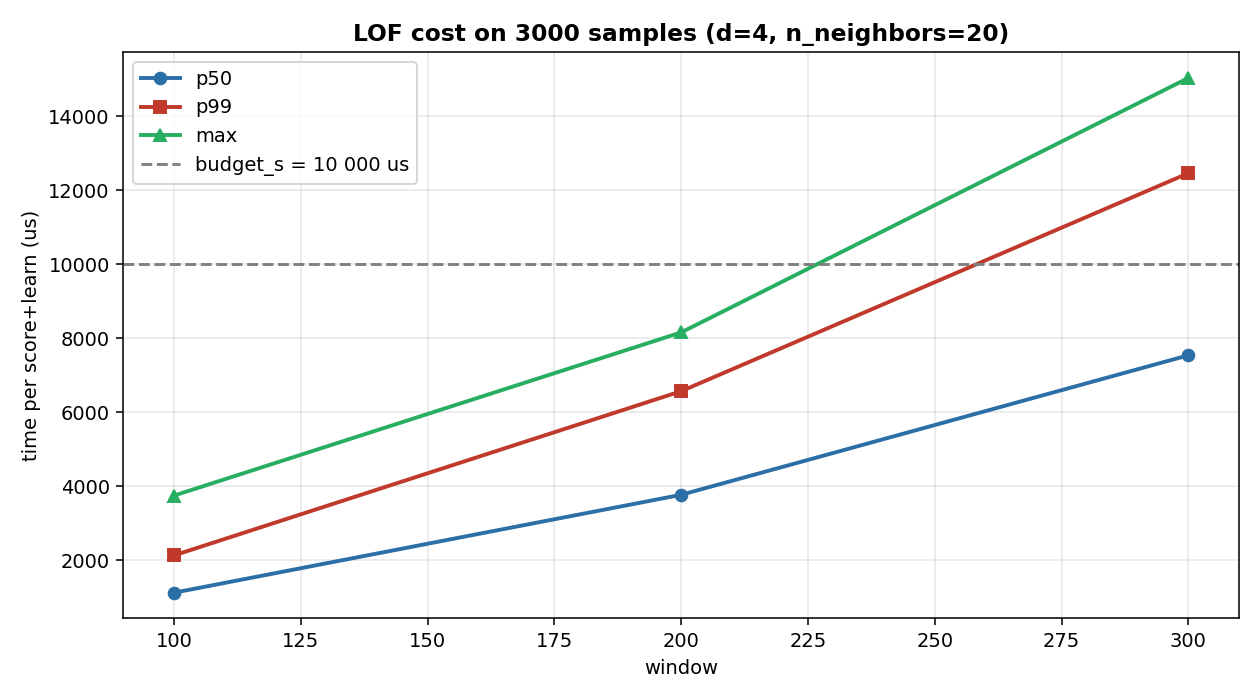
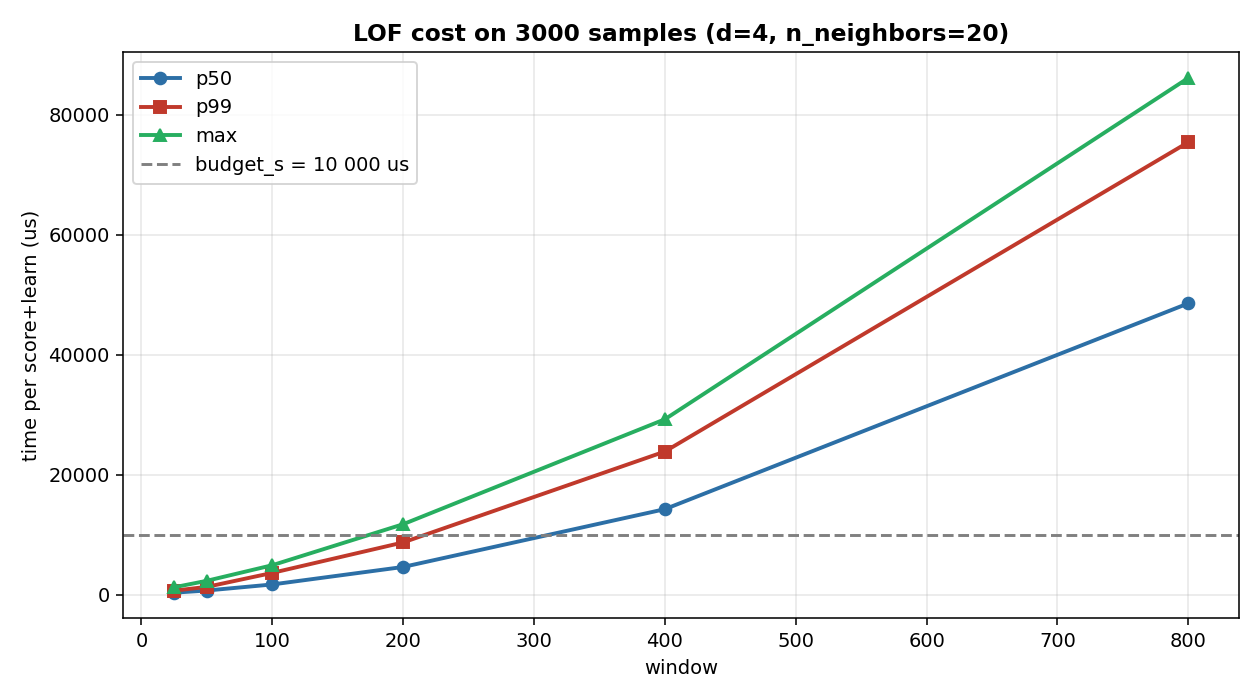
taskD F: fix lof/make_figure.py, generate comparison and budget inline

diff --git a/docs/assets/lof/make_figure.py b/docs/assets/lof/make_figure.py
@@ -8,7 +8,6 @@ Every figure comes from the library's own classes on the same streams
 the tests use. No external data, no hard-coded numbers.
 """
 
-import json
 import sys
 from pathlib import Path
 
@@ -23,8 +22,13 @@ sys.path.insert(0, str(ROOT))
 
 from sklearn.metrics import roc_auc_score
 
+from dense_armor.utility.anomaly.hst import HalfSpaceTrees
+from dense_armor.utility.anomaly.loda import LODA
 from dense_armor.utility.anomaly.lof import LocalOutlierFactor
-from dense_armor.utility.datasets import SyntheticArm
+from dense_armor.utility.anomaly.mahalanobis import OnlineRobustMahalanobis
+from dense_armor.utility.anomaly.ocsvm import OneClassSGD
+from dense_armor.utility.anomaly.oiforest import OnlineIsolationForest
+from dense_armor.utility.datasets import DriftStream, SyntheticArm
 
 HERE = Path(__file__).resolve().parent
 URDF = ROOT / "test/fixtures/urdf/panda.urdf"
@@ -151,18 +155,59 @@ def fig_arm_trajectory():
     print(f"  lof_arm_trajectory.png: AUC={auc:.3f}")
 
 
+def _comparison_run():
+    """Run 6 detectors x 2 protocols x 5 seeds on DriftStream sudden."""
+    import time
+
+    builders = {
+        "HST": lambda k: HalfSpaceTrees(feature_keys=k, seed=0),
+        "LODA": lambda k: LODA(feature_keys=k, seed=0),
+        "OIForest": lambda k: OnlineIsolationForest(feature_keys=k, seed=0),
+        "OCSVM": lambda k: OneClassSGD(feature_keys=k, seed=0),
+        "Mahalanobis": lambda k: OnlineRobustMahalanobis(feature_keys=k),
+        "LOF": lambda k: LocalOutlierFactor(feature_keys=k, seed=0),
+    }
+    out = {n: {"learn-on-healthy": [], "learn-on-all": []} for n in builders}
+    for seed in range(5):
+        ds = DriftStream(
+            n_samples=2000, n_features=4, n_drifts=1,
+            kind="sudden", spacing=999.0, seed=seed,
+        )
+        X = [{k: float(sig[k]) for k in sig.names} for sig, _ in ds.stream()]
+        y = (ds.concepts_ == 1).astype(int)
+        keys = list(X[0].keys())
+        healthy = y == 0
+        for name, make in builders.items():
+            for proto, on_all in (
+                ("learn-on-healthy", False), ("learn-on-all", True)
+            ):
+                det = make(keys)
+                sc = np.empty(len(X))
+                for i, xi in enumerate(X):
+                    sc[i] = det.score_one(xi)
+                    if on_all or healthy[i]:
+                        det.learn_one(xi)
+                out[name][proto].append(float(roc_auc_score(y, sc)))
+    return out
+
+
 def fig_comparison():
     """AUC mediana su 5 seed, 6 detector x 2 protocolli, DriftStream sudden."""
-    with open("/tmp/lof_comparison.json") as f:
-        comp = json.load(f)
+    comp_seeds = _comparison_run()
     names = ["LOF", "HST", "LODA", "OIForest", "OCSVM", "Mahalanobis"]
+
+    def _med(name, proto):
+        vals = comp_seeds[name][proto]
+        return float(np.median(vals)), float(np.percentile(vals, 75) - np.percentile(vals, 25))
+
+    h_med = [_med(n, "learn-on-healthy")[0] for n in names]
+    a_med = [_med(n, "learn-on-all")[0] for n in names]
+    h_iqr = [_med(n, "learn-on-healthy")[1] for n in names]
+    a_iqr = [_med(n, "learn-on-all")[1] for n in names]
+
     fig, ax = plt.subplots(figsize=(11, 6))
     x = np.arange(len(names))
     w = 0.38
-    h_med = [comp[n]["learn-on-healthy"]["auc_med"] for n in names]
-    a_med = [comp[n]["learn-on-all"]["auc_med"] for n in names]
-    h_iqr = [comp[n]["learn-on-healthy"]["auc_iqr"] for n in names]
-    a_iqr = [comp[n]["learn-on-all"]["auc_iqr"] for n in names]
     ax.bar(
         x - w / 2,
         h_med,
@@ -201,12 +246,29 @@ def fig_comparison():
 
 def fig_budget():
     """p50 / p99 / max vs window, on 3000 samples."""
-    with open("/tmp/lof_budget.json") as f:
-        res = json.load(f)
-    W = [r[0] for r in res]
-    p50 = [r[2] for r in res]
-    p99 = [r[3] for r in res]
-    mx = [r[4] for r in res]
+    import time
+
+    rng = np.random.default_rng(0)
+    X = [
+        {"a": float(rng.normal()), "b": float(rng.normal()),
+         "c": float(rng.normal()), "d": float(rng.normal())}
+        for _ in range(3000)
+    ]
+    W = [25, 50, 100, 200, 400, 800]
+    p50 = []
+    p99 = []
+    mx = []
+    for w in W:
+        model = LocalOutlierFactor(n_neighbors=20, window=w)
+        lat = np.empty(len(X))
+        for i, xi in enumerate(X):
+            t0 = time.perf_counter()
+            model.score_one(xi)
+            model.learn_one(xi)
+            lat[i] = (time.perf_counter() - t0) * 1e6
+        p50.append(float(np.percentile(lat, 50)))
+        p99.append(float(np.percentile(lat, 99)))
+        mx.append(float(lat.max()))
     fig, ax = plt.subplots(figsize=(9, 5))
     ax.plot(W, p50, "-o", color="#2c6fa6", lw=2, label="p50")
     ax.plot(W, p99, "-s", color="#c0392b", lw=2, label="p99")
@@ -222,7 +284,7 @@ def fig_budget():
     fig.tight_layout()
     fig.savefig(HERE / "lof_budget.png", dpi=140)
     plt.close(fig)
-    print(f"  lof_budget.png: p99 at W=100 is {p99[0]:.0f} us")
+    print(f"  lof_budget.png: p99 at W=25 is {p99[0]:.0f} us")
 
 
 if __name__ == "__main__":
